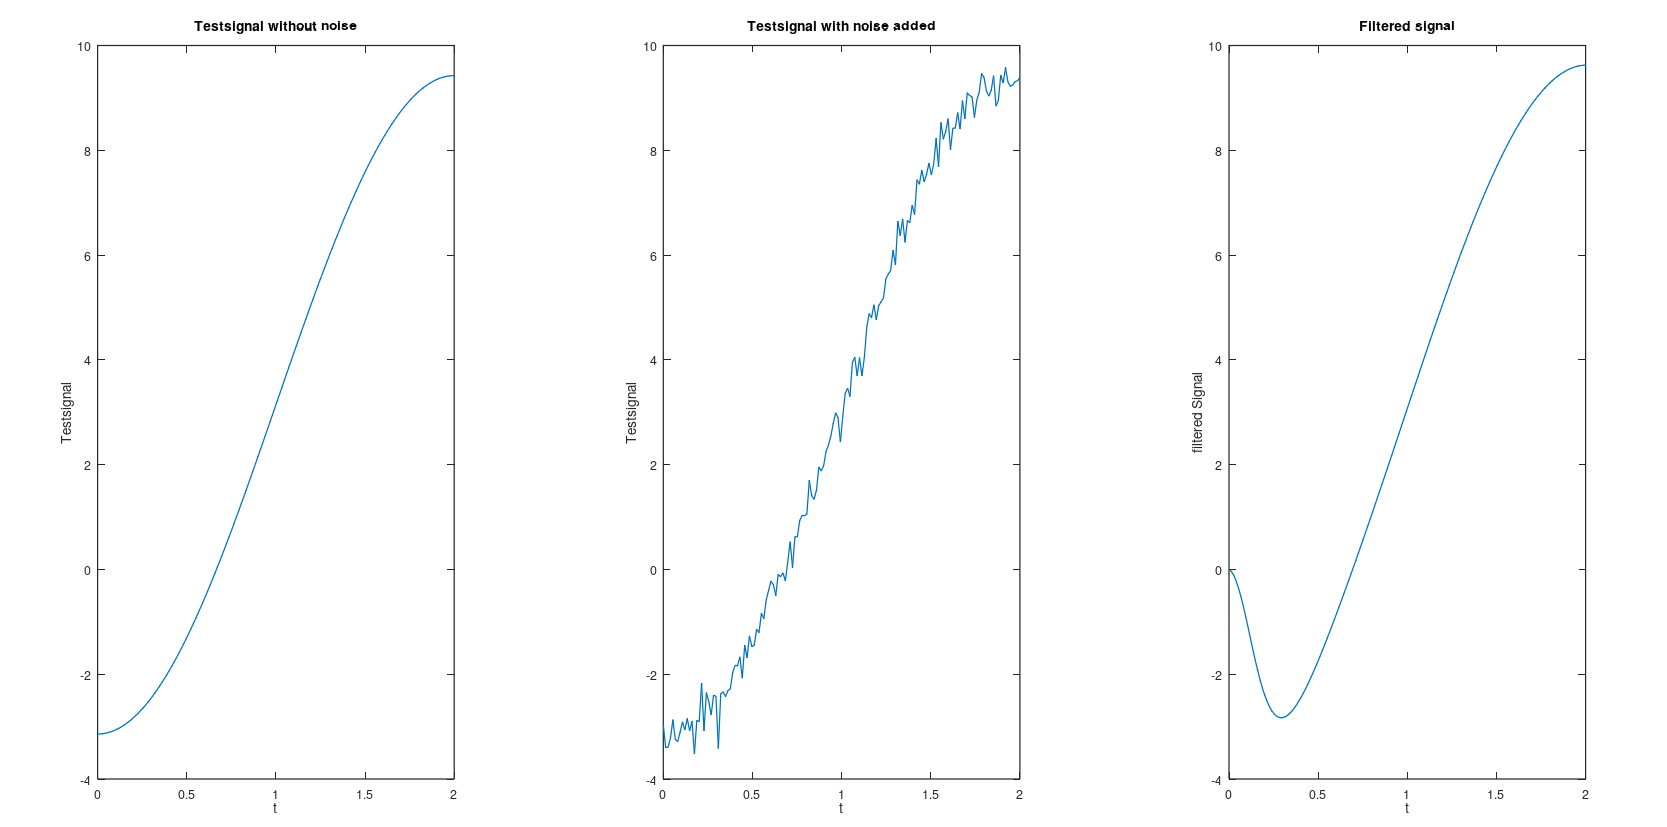
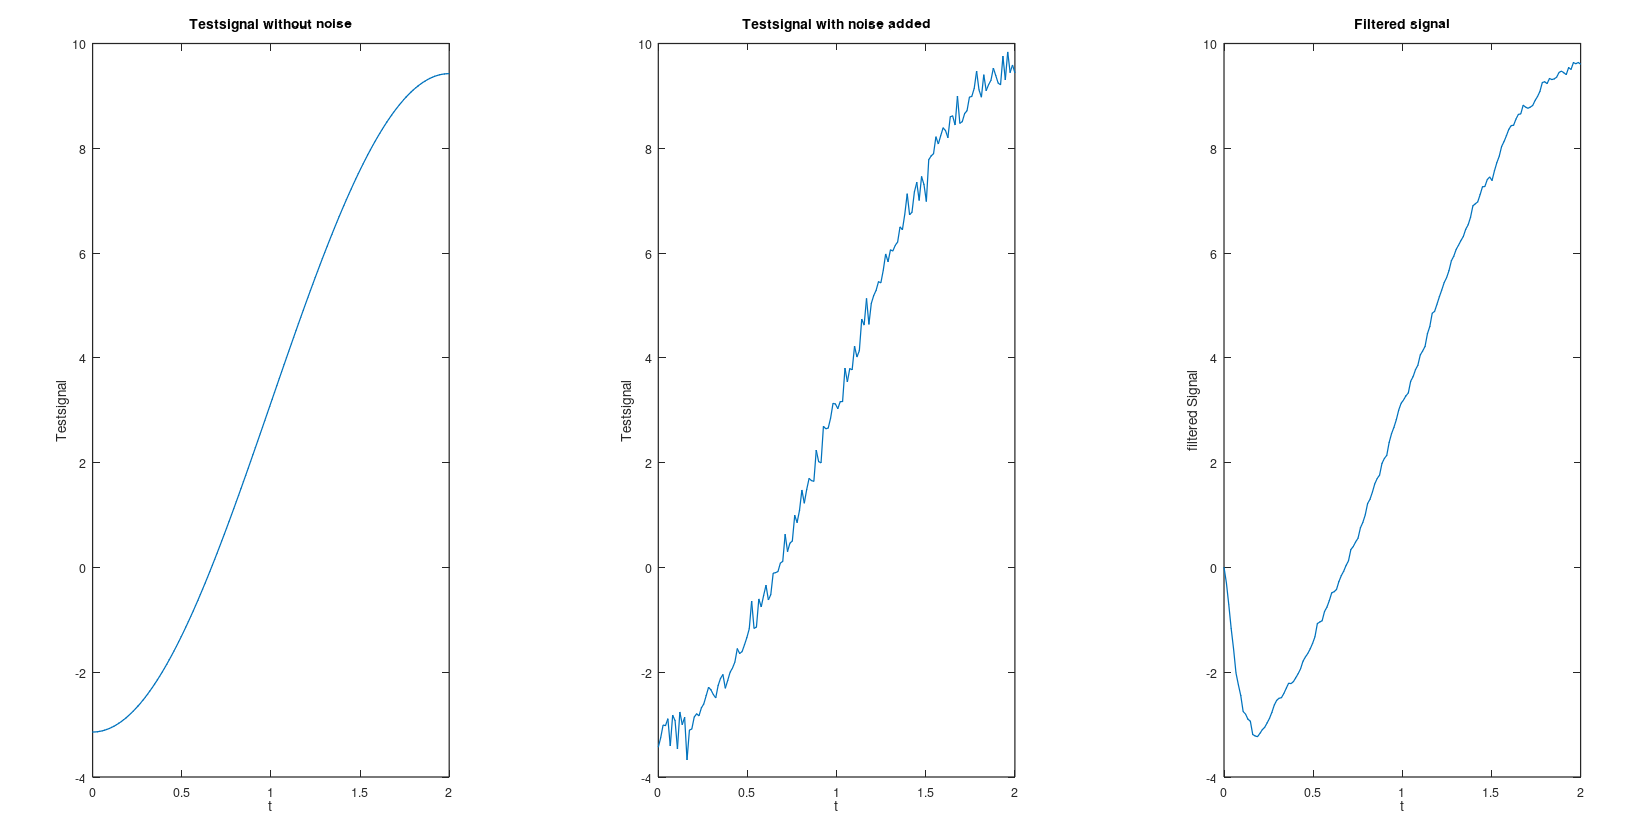
Corrected documentation

diff --git a/Octave/KalmanFilterMechatronik.m b/Octave/KalmanFilterMechatronik.m
@@ -7,7 +7,7 @@ N=150;
 
 t = linspace(0, N*dT, N);
 testsig = pi - 2*pi*cos(pi*t/2);
-testsig2 = testsig + 0.25*randn(size(t)); % setting up the testsignal. Noise is added to the blank testsignal
+testsig2 = testsig + 0.2*randn(size(t)); % setting up the testsignal. Noise is added to the blank testsignal
 
 A=[1 dT;
     0 1]; % The matrices according to the formulas

diff --git a/README.md b/README.md
@@ -9,15 +9,15 @@ For programming the Arduino, the Arduino IDE is used. If wished, I could do a C+
 ## Simulation Results
 The Kalman Filter was designed with the help of the datasheets of the sensors. To test and verify it, a test signal is used.
 ![Signal Curves](Images/SigOverview.png "Waveforms")
-As can be seen, the filter seems to work properly. The noise is reduced successfully. In the beginning, a transient can be seen, because the chosen starting vector for angle and angular speed (the signal and it's derivative respectively) didn't match the initial value of the testsignal. Otherwise the signal is filtered nicely. When it comes to the change in Kalman Gain, the difference between the previous and the current gain is used as a metric. As can be seen, it converges to zero as expected.
+As can be seen, the filter seems to work properly. The noise is reduced successfully. Especially in the middle part the noise is reduced efficiently. In the beginning, a transient can be seen, because the chosen starting vector for angle and angular speed (the signal and it's derivative respectively) didn't match the initial value of the testsignal. Otherwise the signal is filtered nicely. When it comes to the change in Kalman Gain, the difference between the previous and the current gain is used as a metric. As can be seen, it converges to zero as expected.
 ![Kalman Gain](Images/KGainDiff.png "Difference in Kalman Gains")
 This means, the process of recalculating the Kalman Gain in every iteration of the microcontroller can be neglected and the final Kalman Gain can be used directly. Lastly, the angular velocity (derivative of the signal) needs to be invesitgated:
 ![Derivative](Images/Derivative.png "Angular velocity")
-Also the initial transient can be observed. What is also worth noting is the last value. Since the test signal is cosine shaped, the last value is expected to be zero. The reason for this to be incorrect is the filter delay. The filter needs some time to calculate the estimated value and is therefore delayed by some samples. Because of that the derivative didn't reach zero by the end of the test signal.
+Also the initial transient can be observed. What is also worth noting is the last value. Since the test signal is cosine shaped, the last value is expected to be zero. The reason for this to be incorrect is the filter delay. The filter needs some time to calculate the estimated value and is therefore delayed by some samples. Because of that the derivative didn't reach zero by the end of the test signal. Here, the noise couldn't be reduced as far as in the angle estimate. Reason being that this curve is essentially a derivative, which is known to be a noise multiplier. Postprocessing is therefore needed anyway.
 ## Implementation
-In the implementation part there are a view things to take care of. First of all, the sensors need to be calibrated first. If this is not the case, no reliable data can be retrieved. When calibrating the magnetometer, beware of artificial magnetic fields in the area of the sensor. In this example an ISR was used to determine, when to read the sensor data. The interrupt is generated by the MPU6050 and is triggered at around 77Hz. Reading the data and performing the calulations were then done in the main loop. Reason being the data reading time being to high. The result seems correct.
-![KalmanfilterReal](Images/KalmanFilterOnArduino.png "Filtering")
-Here ``vangle`` is the angular velocity and ``vest`` is the estimated angulaer velocity. Again the filter delay can be observed. Aside from that, the data is also smoothed, which in this case is an advantage. The overall execution time of the filter was around 3ms. Maximum allowed would be:
+In the implementation part there are a view things to take care of. First of all, the sensors need to be calibrated first. If this is not the case, no reliable data can be retrieved. When calibrating the magnetometer, beware of artificial magnetic fields in the area of the sensor. In this example an ISR was used to determine, when to read the sensor data. The interrupt is generated by the MPU6050 and is triggered at around 77Hz. Reading the data and performing the calulations were then done in the main loop. Reason being the data reading time being to high.
+
+The overall execution time of the filter was around 3ms. Maximum allowed would be:
 
 $\frac{s}{f_s}= 1/77 = 12.98ms$
 
